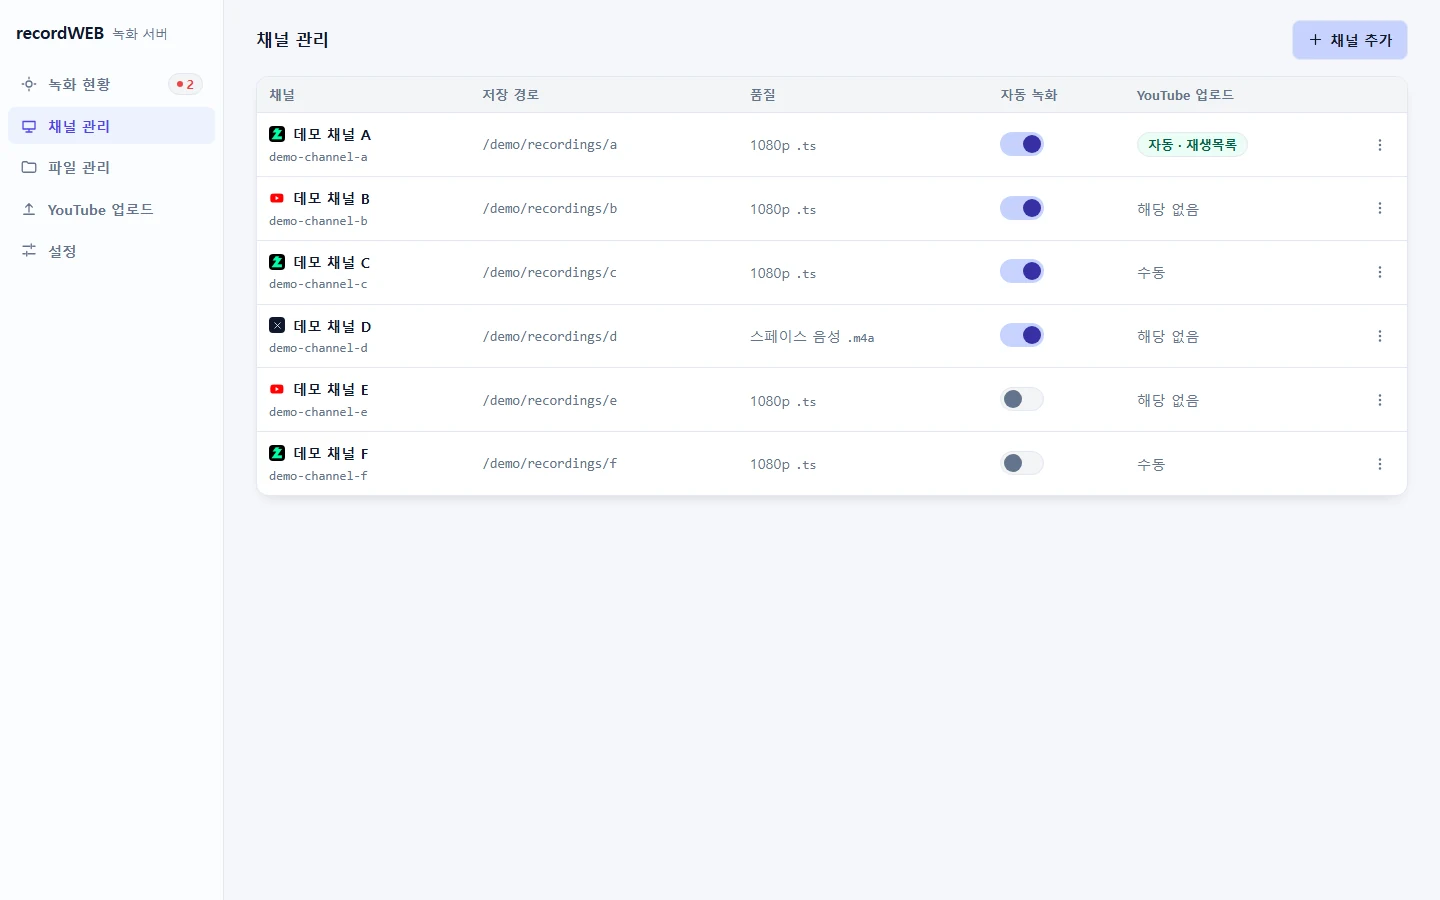
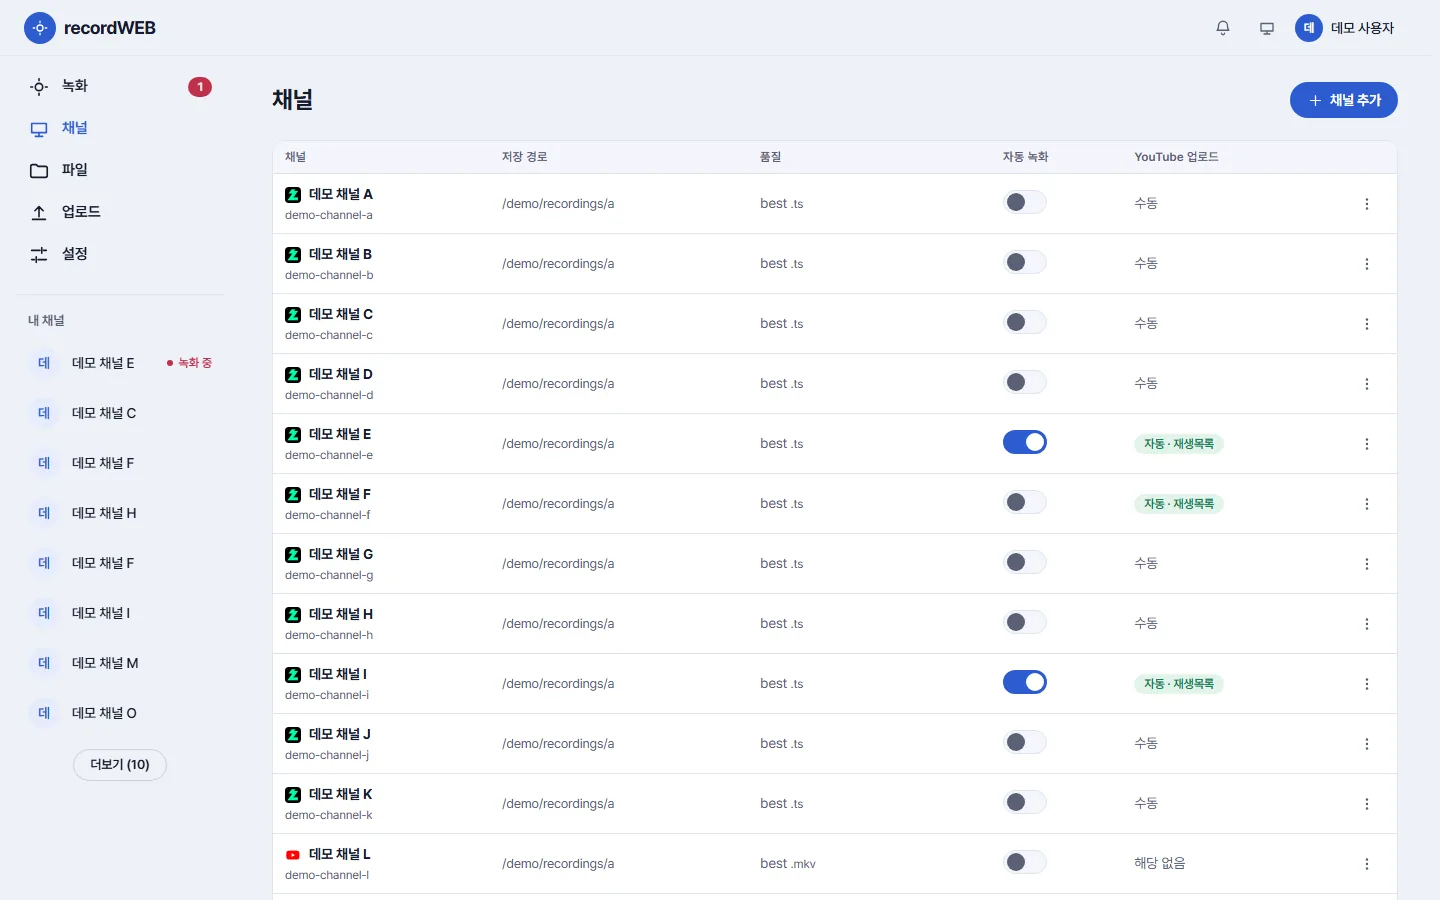
fix: recordWEB 캡처를 가공한 실제 화면으로 교체
채널, 경로, 제목을 가공한 실서비스 화면으로 이미지를 바꾸고 현재 화면에 맞게 alt와 캡션을 고쳤다.

diff --git a/projects/recordweb/index.html b/projects/recordweb/index.html
@@ -62,8 +62,8 @@
       <section id="overview">
         <h2>개요</h2>
         <figure class="shot">
-          <img src="/assets/img/recordweb-dashboard.webp" width="1440" height="900" fetchpriority="high" alt="녹화 현황 화면. CPU, 메모리, 디스크 미터 아래에 데모 채널 6개가 녹화 중, 예약, 대기 상태로 나열되어 있다.">
-          <figcaption><strong>실제 화면</strong>. 채널, 경로, 방송 제목은 모두 데모 데이터입니다.</figcaption>
+          <img src="/assets/img/recordweb-dashboard.webp" width="1440" height="900" fetchpriority="high" alt="녹화 화면. 플랫폼 탭과 상태 필터 아래에 가공한 데모 채널 카드가 녹화 중, 방송 중, 녹화 대기 상태로 나열되어 있다.">
+          <figcaption><strong>실제 화면</strong>. 채널, 경로, 제목은 가공했습니다.</figcaption>
         </figure>
         <p>채널을 등록하면 자동으로 녹화하고, 파일 정리와 YouTube 업로드까지 웹에서 처리합니다.</p>
       </section>
@@ -90,12 +90,12 @@
       <section id="features">
         <h2>주요 기능</h2>
         <figure class="shot">
-          <img src="/assets/img/recordweb-files.webp" width="1440" height="900" loading="lazy" alt="파일 관리 화면. 디스크 사용량, 경로 입력칸, 폴더 4개와 파일 6개의 표가 보이고 파일 2개에 사용 중 배지가 붙어 있다.">
-          <figcaption><strong>실제 화면</strong>. 녹화 중인 파일에는 사용 중 배지가 붙습니다. 데모 데이터입니다.</figcaption>
+          <img src="/assets/img/recordweb-files.webp" width="1440" height="900" loading="lazy" alt="파일 관리 화면. 경로 입력칸과 정렬 선택 아래에 가공한 폴더와 녹화 파일의 표가 최신순으로 보이고 맨 위 파일에 녹화 중 배지가 붙어 있다.">
+          <figcaption><strong>실제 화면</strong>. 녹화 중인 파일에는 배지가 붙습니다. 채널, 경로, 제목은 가공했습니다.</figcaption>
         </figure>
         <figure class="shot">
           <img src="/assets/img/recordweb-channels.webp" width="1440" height="900" loading="lazy" alt="채널 관리 화면. 채널, 저장 경로, 품질, 자동 녹화, YouTube 업로드 열로 이루어진 표가 보인다.">
-          <figcaption><strong>실제 화면</strong>. 채널마다 저장 경로, 품질, 자동 녹화, YouTube 업로드를 정합니다. 데모 데이터입니다.</figcaption>
+          <figcaption><strong>실제 화면</strong>. 채널마다 저장 경로, 품질, 자동 녹화, YouTube 업로드를 정합니다. 채널, 경로, 제목은 가공했습니다.</figcaption>
         </figure>
       </section>
 

diff --git a/index.html b/index.html
@@ -53,8 +53,8 @@
           <li><a href="/projects/comax/"><strong>comax</strong> <span>self-host 시크릿 서버와 CLI</span></a></li>
         </ul>
         <figure class="hero-shot">
-          <a href="/projects/recordweb/"><img src="/assets/img/recordweb-dashboard.webp" width="1440" height="900" fetchpriority="high" alt="recordWEB 녹화 현황 화면. CPU, 메모리, 디스크 사용량 아래에 데모 채널 6개의 녹화 상태와 자동 녹화 토글이 보인다."></a>
-          <figcaption>recordWEB 실제 화면. 데모 데이터로 캡처했습니다.</figcaption>
+          <a href="/projects/recordweb/"><img src="/assets/img/recordweb-dashboard.webp" width="1440" height="900" fetchpriority="high" alt="recordWEB 녹화 화면. 플랫폼 탭과 상태 필터 아래에 가공한 데모 채널 카드의 녹화 상태와 자동 녹화 토글이 보인다."></a>
+          <figcaption>recordWEB 실제 화면. 채널, 경로, 제목은 가공했습니다.</figcaption>
         </figure>
       </section>
 
@@ -81,7 +81,7 @@
           <article class="svc">
             <figure class="shot">
               <a href="/projects/recordweb/"><img src="/assets/img/recordweb-channels.webp" width="1440" height="900" loading="lazy" alt="recordWEB 채널 관리 화면. 채널, 저장 경로, 품질, 자동 녹화, YouTube 업로드 열로 이루어진 표가 보인다."></a>
-              <figcaption><strong>실제 화면</strong>. 데모 데이터로 캡처했습니다.</figcaption>
+              <figcaption><strong>실제 화면</strong>. 채널, 경로, 제목은 가공했습니다.</figcaption>
             </figure>
             <div class="svc-name">
               <h3>recordWEB</h3>

diff --git a/README.md b/README.md
@@ -25,7 +25,7 @@ robots.txt, sitemap.xml      검색 정보
 
 공통 머리글과 바닥글은 각 HTML에 그대로 들어 있습니다. 바꿀 때는 모든 HTML을 함께 고칩니다.
 
-TeraB와 comax 이미지는 실제 화면이 아니라 디자인 시안이므로 캡션에 "디자인 시안"으로 표기합니다. recordWEB 이미지는 실제 화면을 데모 데이터로 캡처했습니다.
+TeraB와 comax 이미지는 실제 화면이 아니라 디자인 시안이므로 캡션에 "디자인 시안"으로 표기합니다. recordWEB 이미지는 실제 화면을 캡처했고 채널, 경로, 제목은 가공했습니다.
 
 `assets/fonts`의 Gothic A1은 SIL OFL 글꼴(`OFL.txt`)이며 ASCII와 KS X 1001 한글 2,350자로 줄였습니다. 이 범위 밖의 글자를 쓰면 대체 글꼴로 보입니다.
 
